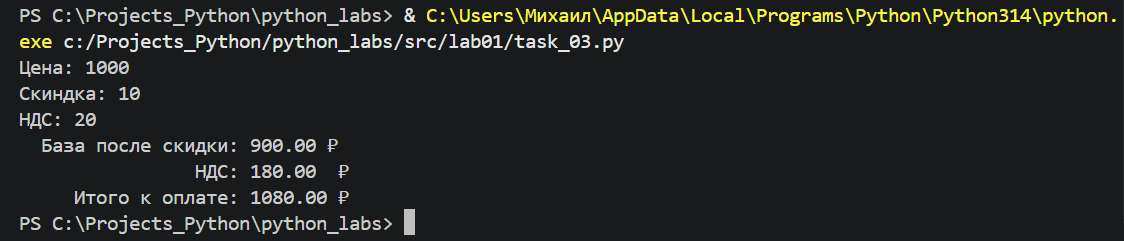
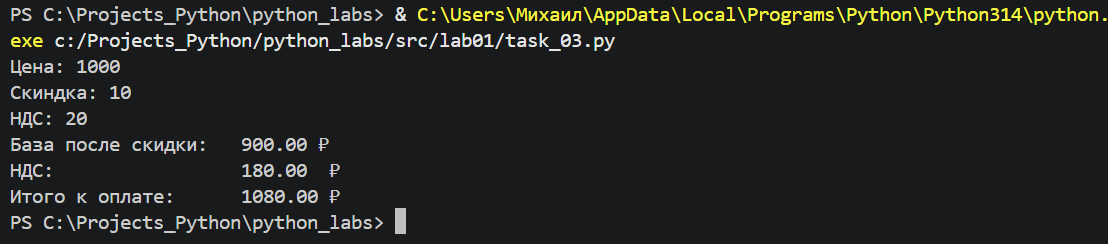
correct_tasks

diff --git a/src/lab01/task_03.py b/src/lab01/task_03.py
@@ -6,6 +6,6 @@ base = price * (1 - discount/100)
 vat_amount = base * (vat/100)
 total = base + vat_amount
 
-print(f'{"База после скидки:":>20} {base:.2f} ₽')
-print(f'{"НДС:":>20} {vat_amount:.2f}  ₽')
-print(f'{"Итого к оплате:":>20} {total:.2f} ₽')
+print(f'{"База после скидки:":<20} {base:.2f} ₽')
+print(f'{"НДС:":<20} {vat_amount:.2f}  ₽')
+print(f'{"Итого к оплате:":<20} {total:.2f} ₽')

diff --git a/src/lab01/task_05.py b/src/lab01/task_05.py
@@ -6,6 +6,6 @@ m = snnf.split()
 inc = ''
 for i in m:
     inc += (i[0]).upper()
-print('Инициалы: %s' %(inc))
+print('Инициалы: %s.' %(inc))
 print('Длина (символов): %s' %(len(' '.join(m))))
 

diff --git a/src/lab01/task_06.py b/src/lab01/task_06.py
@@ -8,4 +8,4 @@ for i in range(n):
         tr += 1
     else:
         fl += 1
-print(tr, fl)
+print(f'out: {tr} {fl}')
